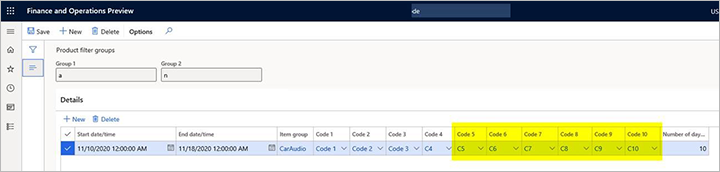
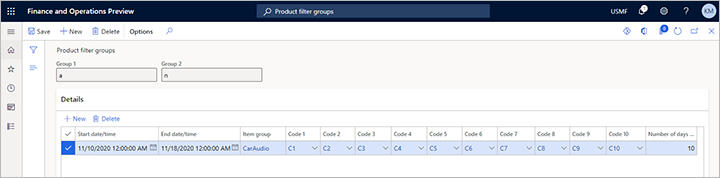
edit

diff --git a/articles/supply-chain/warehousing/filters-and-filter-codes.md b/articles/supply-chain/warehousing/filters-and-filter-codes.md
@@ -5,7 +5,7 @@ title: Configure product filters for warehouse transactions
 description: This topic describes how to configure product filters and filter codes to categorize inventory items in a warehouse. You can also use filters to specify which customers can order a particular item and which items can be purchase from a particular vendor.
 author: Mirzaab
 manager: tfehr
-ms.date: 11/16/2020
+ms.date: 01/04/2021
 ms.topic: article
 ms.prod: 
 ms.service: dynamics-ax-applications
@@ -23,7 +23,7 @@ ms.search.scope:  Core, Operations
 ms.search.region: Global
 # ms.search.industry: [leave blank for most, retail, public sector]
 ms.author: mirzaab
-ms.search.validFrom: 2020-11-16
+ms.search.validFrom: 2021-01-04
 ms.dyn365.ops.version: Release 10.0.16
 ---
 
@@ -46,7 +46,7 @@ The following table shows the prerequisites that must be in place before you sta
 
 ## Set up product filters
 
-Product filters provide up to 10 **Filter title** characteristics, which are enumeration (enum) values. These enum values are available for selection when you create a product filter. The enum values *Code 1* and *Code 2* through *Code 10* are system-defined and represent a specific characteristic or attribute of an item. For example, *Code 1* might represent items that have a hazardous material classification. *Code 2* might represent items that only vendors can purchase. Product filters then define the specific **Filter code** value that is associated with a **Filter title** value.
+Product filters provide up to 10 **Filter title** characteristics, which are enumeration (enum) values. These enum values are available for selection when you create a product filter. The enum values *Code 1* through *Code 10* are system-defined and represent a specific characteristic or attribute of an item. For example, *Code 1* might represent items that have a hazardous material classification. *Code 2* might represent items that only vendors can purchase. Product filters then define the specific **Filter code** value that is associated with a **Filter title** value.
 
 1. Go to **Warehouse management \> Setup \> Product filters \> Product filters**.
 1. On the Action Pane, select **New** to add a product filter to the grid.
@@ -74,7 +74,7 @@ To set up filter groups, follow these steps.
 1. On the **Details** FastTab, select **New** to add a line.
 1. In the **Start date/time** and **End date/time** fields, enter start and end dates for the filter group.
 1. In the **Item group** field, select the item group that the product filter should apply to.
-1. In the **Code 1** and **Code 2** through **Code 10** fields, select the filter codes to include in the group, as required.
+1. In the **Code 1** through **Code 10** fields, select the filter codes to include in the group, as required.
 
     ![Item group](media/ProdFilterGroup.png "Item group")
 
